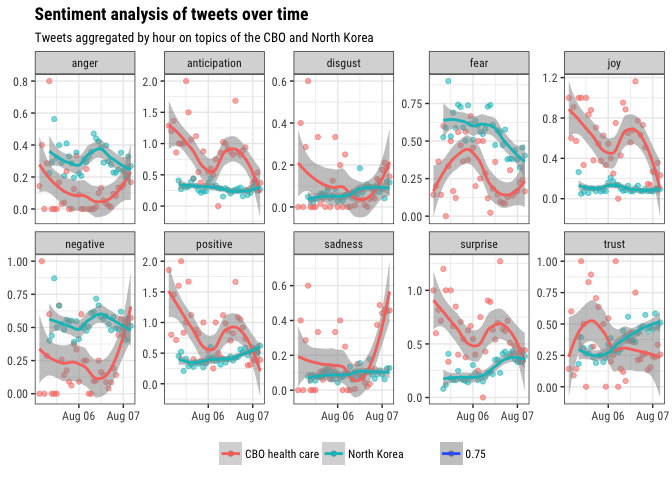
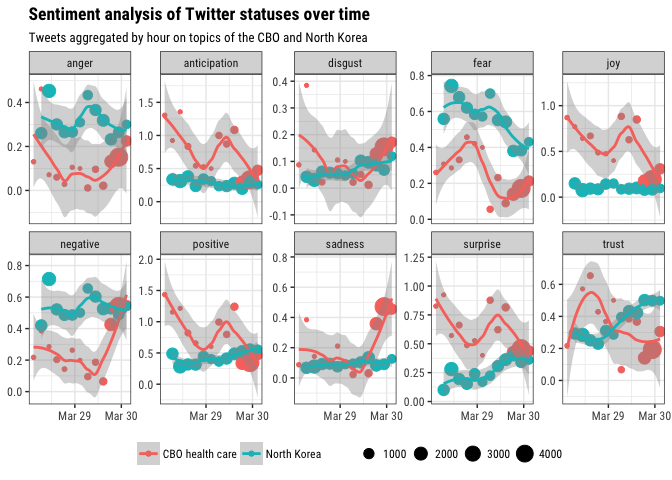
plot size

diff --git a/docs/index.md b/docs/index.md
@@ -1,6 +1,7 @@
 Introduction to rtweet: Collecting Twitter data
 ================
-Michael W. Kearney University of Kansas
+Michael W. Kearney
+May 25, 2017
 
 -   [Getting started with Twitter data](#getting-started-with-twitter-data)
     -   [Installing rtweet](#installing-rtweet)
@@ -434,14 +435,15 @@ long_emotion_ts <- df %>%
     ## select variables (columns) of interest
     dplyr::select(created_at, query, anger:positive) %>%
     ## convert created_at variable to desired interval 
-    ## here I chose hours (60 seconds * 60 mins = 1 hour)
-    mutate(created_at = round_time(created_at, 60 * 60)) %>%
+    ## here I chose 6 hour intervals (3 * 60 seconds * 60 mins = 3 hours)
+    mutate(created_at = round_time(created_at, 3 * 60 * 60)) %>%
     ## transform data to long form
     tidyr::gather(sentiment, score, -created_at, -query) %>%
     ## group by time, query, and sentiment
     group_by(created_at, query, sentiment) %>%
     ## get mean for each grouping
-    summarize(score = mean(score, na.rm = TRUE)) %>% 
+    summarize(score = mean(score, na.rm = TRUE), 
+              n = n()) %>% 
     ungroup()
 ```
 
@@ -452,28 +454,28 @@ The result is a tidy data paradise:
 long_emotion_ts
 ```
 
-    ## # A tibble: 720 x 4
-    ##             created_at           query    sentiment     score
-    ##                 <dttm>           <chr>        <chr>     <dbl>
-    ##  1 2017-08-06 07:00:00 CBO health care        anger 0.1428571
-    ##  2 2017-08-06 07:00:00 CBO health care anticipation 1.2857143
-    ##  3 2017-08-06 07:00:00 CBO health care      disgust 0.0000000
-    ##  4 2017-08-06 07:00:00 CBO health care         fear 0.1428571
-    ##  5 2017-08-06 07:00:00 CBO health care          joy 1.0000000
-    ##  6 2017-08-06 07:00:00 CBO health care     negative 0.0000000
-    ##  7 2017-08-06 07:00:00 CBO health care     positive 1.8571429
-    ##  8 2017-08-06 07:00:00 CBO health care      sadness 0.0000000
-    ##  9 2017-08-06 07:00:00 CBO health care     surprise 1.0000000
-    ## 10 2017-08-06 07:00:00 CBO health care        trust 0.1428571
-    ## # ... with 710 more rows
+    ## # A tibble: 250 x 5
+    ##             created_at           query    sentiment      score     n
+    ##                 <dttm>           <chr>        <chr>      <dbl> <int>
+    ##  1 2019-03-29 07:00:00 CBO health care        anger 0.13043478    23
+    ##  2 2019-03-29 07:00:00 CBO health care anticipation 1.30434783    23
+    ##  3 2019-03-29 07:00:00 CBO health care      disgust 0.08695652    23
+    ##  4 2019-03-29 07:00:00 CBO health care         fear 0.26086957    23
+    ##  5 2019-03-29 07:00:00 CBO health care          joy 0.86956522    23
+    ##  6 2019-03-29 07:00:00 CBO health care     negative 0.21739130    23
+    ##  7 2019-03-29 07:00:00 CBO health care     positive 1.43478261    23
+    ##  8 2019-03-29 07:00:00 CBO health care      sadness 0.08695652    23
+    ##  9 2019-03-29 07:00:00 CBO health care     surprise 0.82608696    23
+    ## 10 2019-03-29 07:00:00 CBO health care        trust 0.21739130    23
+    ## # ... with 240 more rows
 
 Which we can pass right along to *ggplot2* for the finish:
 
 ``` r
 ## plot data
 long_emotion_ts %>%
-    ggplot(aes(x = created_at, y = score, color = query, alpha = .75)) + 
-    geom_point() + 
+    ggplot(aes(x = created_at, y = score, color = query)) + 
+    geom_point(aes(size = n)) + 
     geom_smooth(method = "loess") + 
     facet_wrap(~ sentiment, scale = "free_y", nrow = 2) + 
     theme_bw() + 
@@ -483,7 +485,7 @@ long_emotion_ts %>%
           axis.text = element_text(size = 9),
           legend.title = element_blank()) + 
     labs(x = NULL, y = NULL, 
-         title = "Sentiment analysis of tweets over time",
+         title = "Sentiment analysis of Twitter statuses over time",
          subtitle = "Tweets aggregated by hour on topics of the CBO and North Korea") +
     scale_x_datetime(date_breaks = "18 hours", date_labels = "%b %d")
 ```
